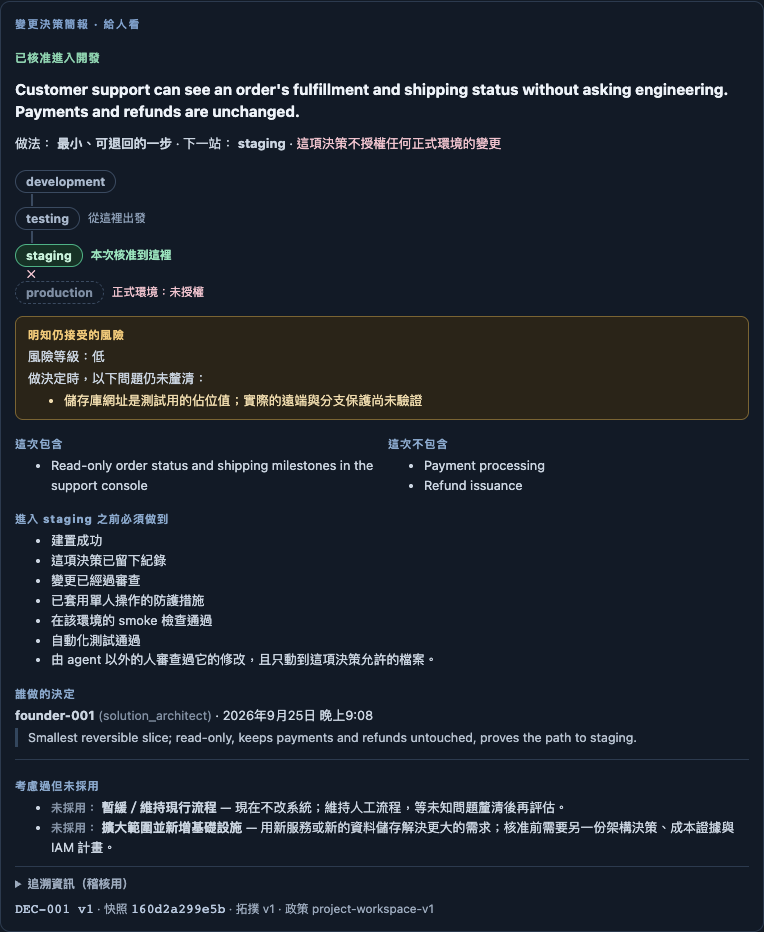
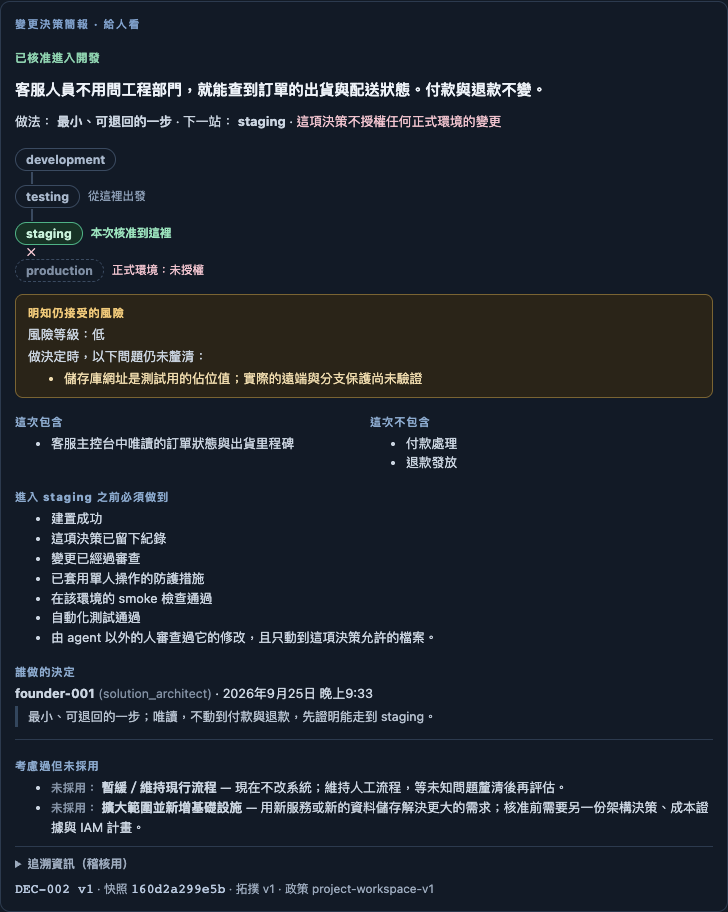
docs(reader-test): zh-TW screenshot from a Chinese-authored request
The zh-TW reader-test screenshot showed the zh-TW UI but English free
text in every data field (owner_summary, scope, decision rationale),
because the previous capture used the same English request content for
both locales. The renderer never translates data, so a non-engineer
zh-TW reader would stumble on language, not on Brief structure.

- Add tests/browser/reader-test-material.capture.ts, a committed,
  reproducible Playwright script that drives the real Change → decision
  UI flow twice: once with English request content, once with the same
  meaning written natively in Traditional Chinese by the requester
  (owner_summary, objective, scope included/excluded, decision
  rationale). Structure, selected option and target environment
  (staging) are identical; only the requester's free text differs.
  Everything else the renderer already localizes on its own (option/
  evidence/unknown wording) is left untouched.
- Its own config (reader-test-material.capture.config.ts) is the only
  thing that ever matches the script by name, so it is never discovered
  by `npm run test:e2e` (verified: still 13 tests, same as before).
- Replace both PNGs under docs/validation/reader-test-materials/ with
  fresh captures. Manually inspected the new zh-TW screenshot: no
  English free text remains in the reader-facing part (ids/env/decision
  codes like founder-001, staging, DEC-002 are left as-is, per the
  reader-test doc's own convention).
[…]

Changed region(s): [[0.0, 0.0, 0.967, 0.7982], [0.0, 0.8289, 0.967, 0.9825]]

diff --git a/tests/browser/reader-test-material.capture.ts b/tests/browser/reader-test-material.capture.ts
@@ -1,0 +1,137 @@
+import { test } from "@playwright/test";
+import * as path from "node:path";
+
+// Captures the two screenshots used as material for the Change Decision
+// Brief reader test (docs/validation/CONTEXT_RAIL_BRIEF_READER_TEST_*.zh-TW.md
+// §2), by driving the real Change → decision flow twice through the UI —
+// once with the request content written in English, once with the same
+// content faithfully written in Traditional Chinese by the requester. The
+// renderer never translates data (frontend/src/components/ChangeBrief.tsx,
+// see its header comment); the zh-TW screenshot looks different from the en
+// one only because the requester wrote the free-text fields in Chinese, the
+// same way a real bilingual requester would produce two separate records.
+//
+// NOT part of `npm run test:e2e`: this file's name does not end in
+// `.spec.ts` / `.test.ts`, so the default suite's testMatch
+// (frontend/playwright.config.ts) never discovers it, and it is also
+// excluded by name from reader-test-material.capture.config.ts's own
+// testMatch when that config is pointed elsewhere. Run it standalone with
+// its own config, from frontend/, against a server on a FRESH, empty
+// CONTEXT_RAIL_STATE_DIR (fresh so the first Change in the run is DEC-001;
+// see the doc's §2 for why the two screenshots do not need to share one
+// decision id):
+//
+//   cd frontend && PLAYWRIGHT_EXECUTABLE_PATH="/Applications/Google Chrome.app/Contents/MacOS/Google Chrome" \
+//     BASE_URL=http://127.0.0.1:8094 \
+//     npx playwright test --config=../tests/browser/reader-test-material.capture.config.ts
+//
+// Only free text a requester would actually write is translated (owner
+// summary, scope included/excluded, decision rationale, the technical
+// objective). Everything else — ids, env names, evidence/option codes, the
+// "minimal_reversible_slice" approach, staging as the target — is identical
+// in both runs and is already rendered in the reader's language by the
+// renderer itself (frontend/src/i18n/advisor.ts), never by this script.
+
+const outDir = path.resolve(__dirname, "../../docs/validation/reader-test-materials");
+
+interface RequestContent {
+  title: string;
+  objective: string;
+  ownerSummary: string;
+  scopeIncluded: string;
+  scopeExcluded: string;
+  acceptanceCriteria: string;
+  expectedVolume: string;
+  reason: string;
+  rationale: string;
+}
+
+const en: RequestContent = {
+  title: "Order status visibility for support",
+  objective:
+    "Let the support console show order fulfillment and shipping status read-only, without touching payment or refund flows.",
+  ownerSummary:
+    "Customer support can see an order's fulfillment and shipping status without asking engineering. Payments and refunds are unchanged.",
+  scopeIncluded: "Read-only order status and shipping milestones in the support console",
+  scopeExcluded: "Payment processing\nRefund issuance",
+  acceptanceCriteria:
+    "Support console shows order status and shipping milestones\nPayment and refund flows are unchanged",
+  expectedVolume: "10,000 lookups/month",
+  reason: "reader test material capture",
+  rationale:
+    "Smallest reversible slice; read-only, keeps payments and refunds untouched, proves the path to staging.",
+};
+
+// Natural Taiwan Traditional Chinese, written by the requester with the same
+// meaning as `en` above — not a translation performed by the renderer.
+const zhTW: RequestContent = {
+  title: "客服可查訂單出貨狀態",
+  objective: "讓客服主控台唯讀顯示訂單的出貨與配送狀態，不動到付款或退款流程。",
+  ownerSummary: "客服人員不用問工程部門，就能查到訂單的出貨與配送狀態。付款與退款不變。",
+  scopeIncluded: "客服主控台中唯讀的訂單狀態與出貨里程碑",
+  scopeExcluded: "付款處理\n退款發放",
+  acceptanceCriteria: "客服主控台顯示訂單狀態與出貨里程碑\n付款與退款流程不變",
+  expectedVolume: "每月 10,000 次查詢",
+  reason: "讀者測試素材擷取",
+  rationale: "最小、可退回的一步；唯讀，不動到付款與退款，先證明能走到 staging。",
+};
+
+async function captureBrief(
+  page: import("@playwright/test").Page,
+  locale: "en" | "zh-TW",
+  content: RequestContent,
+  fileName: string,
+): Promise<void> {
+  await page.goto("/projects/order-operations-portal");
+  if (locale === "zh-TW") {
+    await page.evaluate(() => localStorage.setItem("context-rail.locale", "zh-TW"));
+    await page.reload();
+  }
+  const changesPanel = page.getByTestId("changes-panel");
+  await changesPanel.waitFor();
+
+  // "New Change" has no data-testid and its label is localized, so target it
+  // by position/class (the only button.button-primary directly under the
+  // list, scoped to the Changes panel so it can't match another panel's
+  // same-classed button, e.g. Releases' "New release") instead of by
+  // translated text.
+  await changesPanel.locator(".changes-list > button.button-primary").click();
+  const create = page.getByTestId("change-form-create");
+  await create.locator("input[name=title]").fill(content.title);
+  await create.locator("select[name=target_environment_id]").selectOption("staging");
+  await create.locator("textarea[name=owner_summary]").fill(content.ownerSummary);
+  await create.locator("textarea[name=objective]").fill(content.objective);
+  await create.locator("textarea[name=scope_included]").fill(content.scopeIncluded);
+  await create.locator("textarea[name=scope_excluded]").fill(content.scopeExcluded);
+  await create.locator("textarea[name=acceptance_criteria]").fill(content.acceptanceCriteria);
+  await create.locator("textarea[name=allowed_paths]").fill("main.go\nweb/index.html\nmain_test.go");
+  await create.locator("input[name=data_classification]").fill("internal");
+  await create.locator("input[name=expected_monthly_volume]").fill(content.expectedVolume);
+  await create.locator("input[name=reason]").fill(content.reason);
+  await create.locator("button.button-primary[type=submit]").click();
+
+  // All required inputs were supplied up front, so the Change goes straight
+  // to DECISION_READY — no NEEDS_INPUT round trip needed.
+  const decisionForm = page.getByTestId("change-decision-form");
+  await decisionForm.waitFor();
+  // The advisor recommends "minimal_reversible_slice" by default; select it
+  // explicitly so the capture does not depend on that default.
+  await decisionForm.locator("input[name=selected_option][value=minimal_reversible_slice]").check();
+  await decisionForm.locator("input[name=actor]").fill("founder-001");
+  await decisionForm.locator("textarea[name=rationale]").fill(content.rationale);
+  await decisionForm.locator("button.button-primary[type=submit]").click();
+
+  const brief = page.getByTestId("change-brief");
+  await brief.getByTestId("brief-decided-by").waitFor();
+  await brief.getByTestId("brief-trace").waitFor();
+  // Traceability starts collapsed — same framing as the current screenshots.
+  await brief.screenshot({ path: path.join(outDir, fileName) });
+}
+
+test("capture Change Decision Brief reader-test screenshots (en + zh-TW)", async ({ page }) => {
+  await captureBrief(page, "en", en, "brief-en.png");
+  // A fresh Change, not an edit of the first: the en and zh-TW screenshots
+  // are two separate records with the same content, exactly as
+  // docs/validation/CONTEXT_RAIL_BRIEF_READER_TEST_2026-09-25.zh-TW.md §2 says.
+  await captureBrief(page, "zh-TW", zhTW, "brief-zh-TW.png");
+});

diff --git a/tests/browser/reader-test-material.capture.config.ts b/tests/browser/reader-test-material.capture.config.ts
@@ -1,0 +1,28 @@
+import { defineConfig } from "@playwright/test";
+
+// Standalone config for tests/browser/reader-test-material.capture.ts — the
+// reader-test screenshot capture script. It is intentionally separate from
+// frontend/playwright.config.ts (which drives `npm run test:e2e`) so the
+// capture script is never discovered or run by the normal e2e suite: its
+// testMatch below is the only thing that ever selects that file. See the
+// capture script's header comment for how to run this.
+export default defineConfig({
+  testDir: ".",
+  testMatch: /reader-test-material\.capture\.ts$/,
+  timeout: 30_000,
+  workers: 1,
+  fullyParallel: false,
+  use: {
+    baseURL: process.env.BASE_URL ?? "http://127.0.0.1:8080",
+    trace: "retain-on-failure",
+    // Below the 900px breakpoint (frontend/src/styles/index.css) the
+    // workspace, the Changes list/detail split and the Brief/Agent Context
+    // Pack dual-view all collapse to a single column, so the Brief screenshot
+    // is one clean reading-width card instead of a cramped multi-column
+    // sliver — matching the framing of the existing reader-test screenshots.
+    viewport: { width: 860, height: 1400 },
+    launchOptions: process.env.PLAYWRIGHT_EXECUTABLE_PATH
+      ? { executablePath: process.env.PLAYWRIGHT_EXECUTABLE_PATH }
+      : undefined,
+  },
+});

diff --git a/docs/validation/CONTEXT_RAIL_BRIEF_READER_TEST_2026-09-25.zh-TW.md b/docs/validation/CONTEXT_RAIL_BRIEF_READER_TEST_2026-09-25.zh-TW.md
@@ -1,7 +1,7 @@
 # Change Decision Brief 讀者測試（三問測試）
 
 - 對應：可讀性 review 第 6 點（[review](../reviews/CONTEXT_RAIL_BRIEF_READABILITY_REVIEW_2026-09-25.zh-TW.md)）、roadmap G5 usability、DoD #5「human-readable Change Decision Brief」
-- 受測版本：`fix/brief-reader-preview` @ `cf9de5c`（Brief v2 + 第 9 節 AI 預演後的三項顯示修正：範圍兩欄皆空時合併成一行、「進入 staging 之前必須做到」只顯示人類標籤、「考慮過但未採用」加上分隔線與「未採用：」標籤）。EB-013（`develop` @ `7b51de4`）是 AI 預演當時看的舊版，不再用於真人施測。
+- 受測版本：`docs/reader-test-zh-material` @ `<pending>`（畫面本身沿用 `fix/brief-reader-preview` @ `cf9de5c` 的顯示修正，未再變更；這次只換了截圖素材——zh-TW 與 en 改成由撰寫者分別以中文／英文各寫一次 owner_summary、範圍、決策理由等自由文字後各自擷取，見第 2 節，取代先前殘留英文自由文字的版本）。EB-013（`develop` @ `7b51de4`）是 AI 預演當時看的舊版，不再用於真人施測。
 - 狀態：**題目已備妥，尚未施測**
 - 目的：確認沒看過 ContextRail 的人，只讀 Brief 就能說出核准了什麼、沒核准什麼、最大的風險是什麼。現有的截圖和測試只能證明畫面正確，不能證明讀得懂。
 
@@ -11,7 +11,7 @@
 
 | 代號 | 角色 | 用哪一版 |
 |---|---|---|
-| R1 | 業主／PM（不寫程式、要做決定的人） | zh-TW |
+| R1 | 業主／PM（不寫程式、要做決定的人） | zh-TW（預設）；能流暢讀英文者可用 en |
 | R2 | 工程主管或 tech lead | zh-TW 或 en |
 | R3（選填） | 審查、稽核或維運角色 | zh-TW 或 en |
 
@@ -19,8 +19,13 @@
 
 ## 2. 材料
 
-- zh-TW：`docs/validation/reader-test-materials/brief-zh-TW.png`
+- zh-TW（預設）：`docs/validation/reader-test-materials/brief-zh-TW.png`
 - en：`docs/validation/reader-test-materials/brief-en.png`
+
+zh-TW 和 en 是**兩筆各自撰寫的紀錄**，不是同一筆 decision 互譯出來的：同一個 Change 決策流程各跑一次，owner_summary、範圍（included／not included）、決策理由等自由文字欄位，由撰寫者（requester）分別用中文和英文各寫一次，語意、結構、選中的方案（最小可退回的一步）、目標環境（staging）都相同；renderer 本身從不翻譯資料（見 `frontend/src/components/ChangeBrief.tsx` 檔頭註解「Data values are never passed through t()」），所以兩張截圖的 decision id 也不同（en 是 DEC-001，zh-TW 是 DEC-002）。
+
+截圖由 `tests/browser/reader-test-material.capture.ts` 產生，是可重複執行的腳本（不算進 `npm run test:e2e`，見該檔檔頭註解與 `tests/browser/reader-test-material.capture.config.ts`）。跑法：對一個全新、空的 `CONTEXT_RAIL_STATE_DIR` 啟動伺服器後，於 `frontend/` 下執行：
+`PLAYWRIGHT_EXECUTABLE_PATH="/Applications/Google Chrome.app/Contents/MacOS/Google Chrome" BASE_URL=http://127.0.0.1:<port> npx playwright test --config=../tests/browser/reader-test-material.capture.config.ts`
 
 （舊版 `evidence/EB-013/brief-zh-TW.png`、`brief-en.png` 是第 9 節 AI 預演當時看的截圖，修正前的版本；真人施測一律用上面這組新截圖，不要用 EB-013 的。）
 
@@ -65,6 +70,7 @@
 - 測的是示範資料，不是真實的變更。
 - 看的是靜態截圖，沒有測到展開追溯區、切換語系等互動。
 - 2～3 人只能找出明顯的理解問題，不足以作為統計上的結論。
+- zh/en 兩張截圖是兩筆各自撰寫的紀錄，內容相同但不是同一筆 decision（見第 2 節）；R1 若改用 en，第 7 節紀錄表「語系」欄要據實填寫，第 8 節結果表也要註明用的是哪個語系。
 
 ## 7. 紀錄表
 
